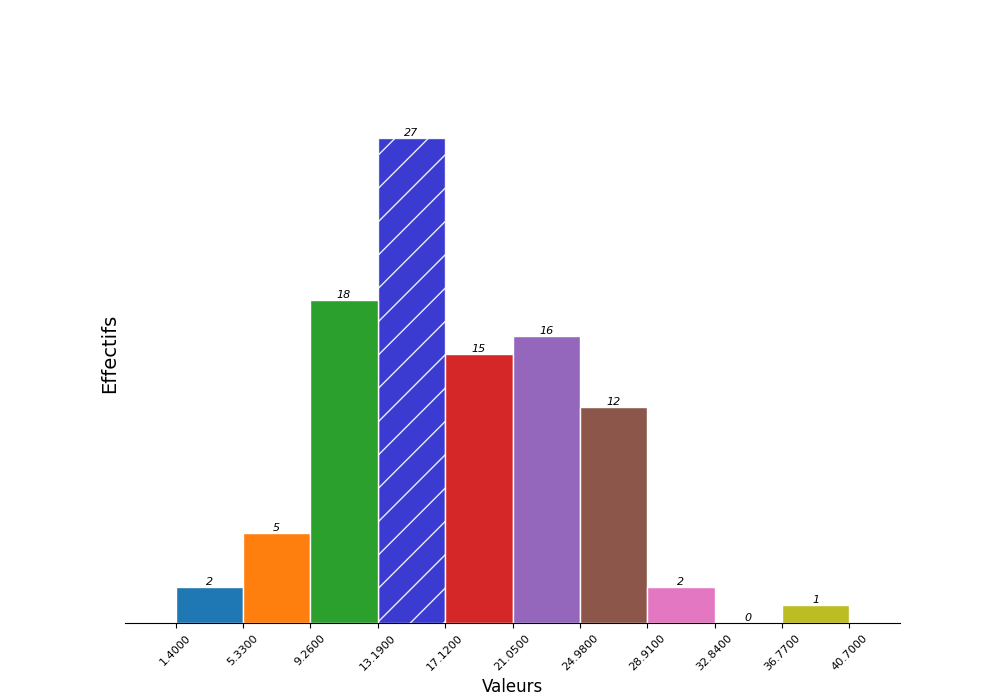
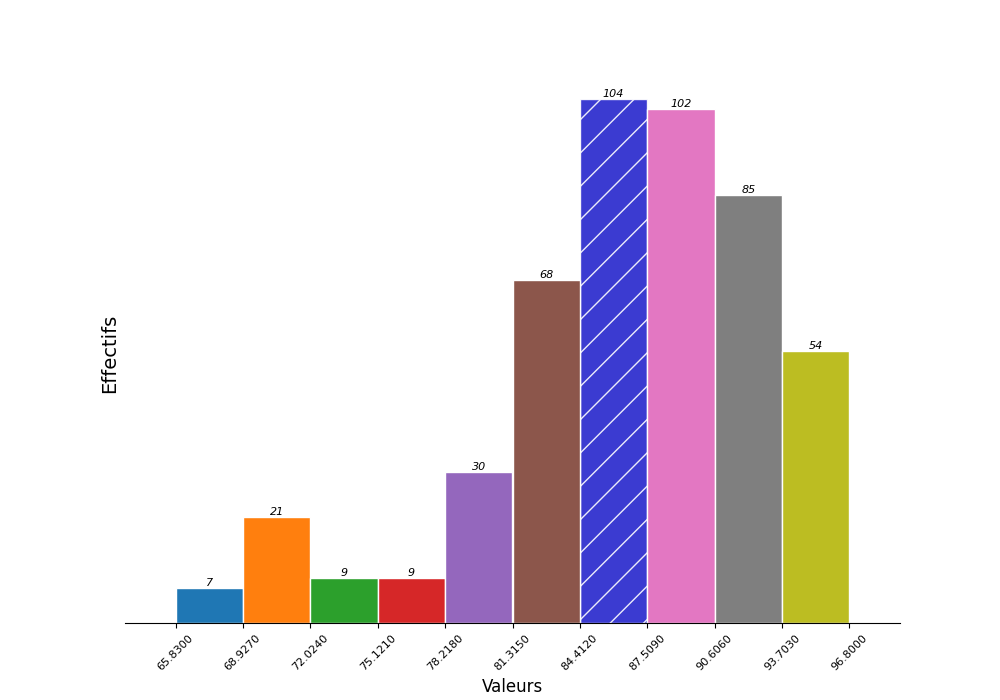
regularite updated2

diff --git a/apps/regularite.py b/apps/regularite.py
@@ -16,7 +16,7 @@ from function import *
 
 ####################################
 dataset = ["regularite-mensuelle-intercites", "regularite-mensuelle-ter", "ponctualite-mensuelle-transilien",
-           "regularite-mensuelle-tgv-aqst"]
+           "regularite-mensuelle-tgv-aqst", "regularite-mensuelle-tgv-axes"]
 df = pd.DataFrame()
 Statistiques = ["nombre d'observation",
                 "minimum",
@@ -64,6 +64,7 @@ def displays_graph(value, div_children):
     global df
     df = getData(value)
     dfobj = df.select_dtypes(include=object).columns
+    reg = df[dfobj[0]].unique()[0]
     new_child = html.Div(
         children=[
             html.Br(),
@@ -93,7 +94,15 @@ def displays_graph(value, div_children):
             dbc.Row((
                 dbc.Col(
                     id="dbc_Region-Dropdown",
-                    children=[],
+                    children=[
+                        dcc.Dropdown(
+                            id='Region-Dropdown',
+                            value=reg,
+                            multi=False,
+                            placeholder='Select ...',
+                            options=[]
+                        )
+                    ],
                     width={'size': 4, 'offset': 1, 'order': 1}
                 ),
                 dbc.Col(
@@ -114,30 +123,22 @@ def displays_graph(value, div_children):
     return new_child
 
 
-@app.callback(Output('dbc_Region-Dropdown', 'children'),
+@app.callback(Output('Region-Dropdown', 'options'),
               [Input('filter-Dropdown', 'value')],
-              [State('dbc_Region-Dropdown', 'children')]
               )
-def updateDbcRegion(First_filter, reg_child):
-    reg_child = dcc.Dropdown(
-        id='Region-Dropdown',
-        multi=False,
-        value=df[First_filter][0],
-        placeholder='Select ...',
-        options=[{'label': c, 'value': c}
-                 for c in df[First_filter].unique()]
-    )
-    return reg_child
+def updateDbcRegion(First_filter):
+
+    return [{'label': c, 'value': c}
+            for c in df[First_filter].unique()]
 
 
 @app.callback(Output('container2', 'children'),
               [Input('categorie-Dropdown', 'value'),
                Input('Region-Dropdown', 'value'),
                Input('filter-Dropdown', 'value'),
-               Input('Stastitic-Dropdown', 'value')],
-              [State('container2', 'children')]
+               Input('Stastitic-Dropdown', 'value')]
               )
-def update_graphics(categorie, region, first_filter, stats, div_children2):
+def update_graphics(categorie, region, first_filter, stats):
     data = df[df[first_filter] == region]
     valeur = [data[categorie].size,
               data[categorie].min(axis=0),
@@ -359,13 +360,14 @@ def update_graphics(categorie, region, first_filter, stats, div_children2):
                                     go.Histogram(
                                         x=datahist,
                                         nbinsx=30,
+                                        name="donnée historique",
                                         histnorm='probability density',
                                         marker_color='rgb(55, 83, 109)',
                                         opacity=0.75),
                                     go.Scatter(x=xhist,
                                                y=cdf,
                                                mode='lines',
-                                               name='Estimated Weibull',
+                                               name='loi de Weibull estimé',
                                                marker_color='rgb(26, 118, 255)')
                                 ],
                                 'layout': go.Layout(

diff --git a/function.py b/function.py
@@ -16,8 +16,13 @@ def getData(ID):
                               "Commentaire (facultatif) annulations",
                               "Commentaire (facultatif) retards au départ",
                               "Commentaire (facultatif) retards à l'arrivée"])
+    elif ID == "regularite-mensuelle-tgv-axes":
+        df = df.rename(columns={'Période': 'Date'})
+        df = df.drop(columns=["Année",
+                              "Mois"])
     df['Date'] = pd.to_datetime(df['Date'], format='%Y-%m-%d', exact=False)
     return df
+
 
 
 def build_hierarchical_dataframe(df, levels, value_column, color_columns=None):
